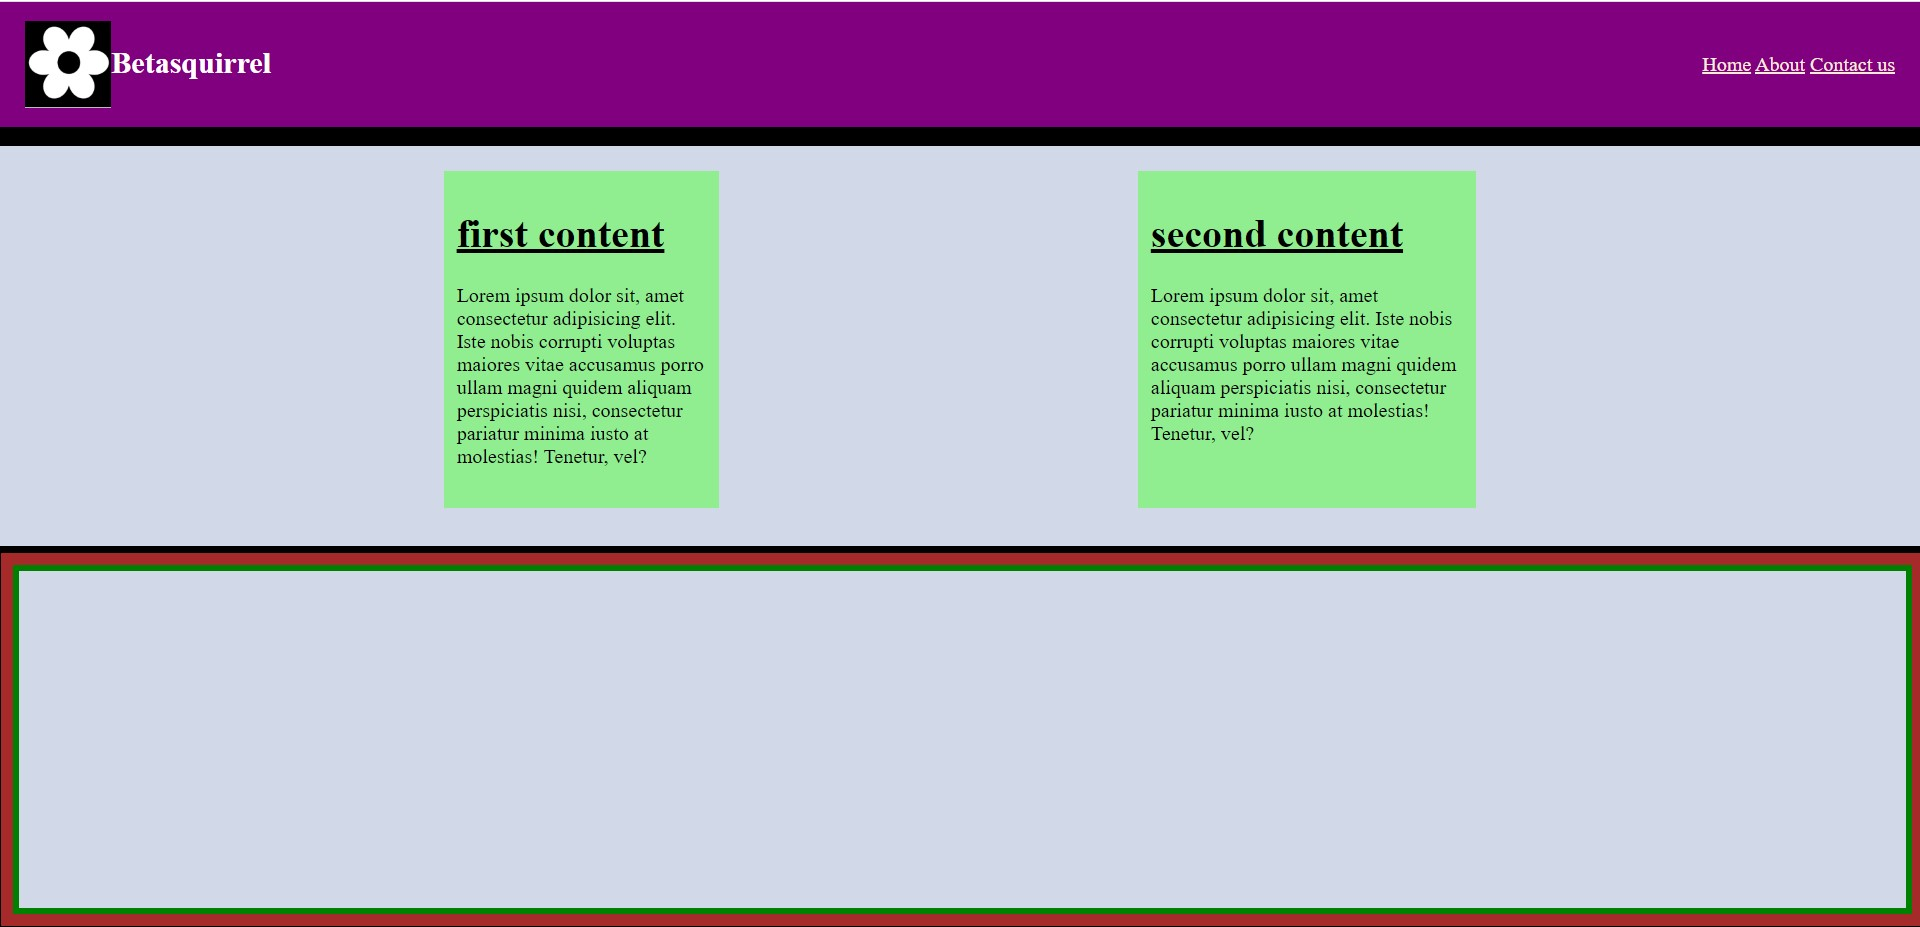
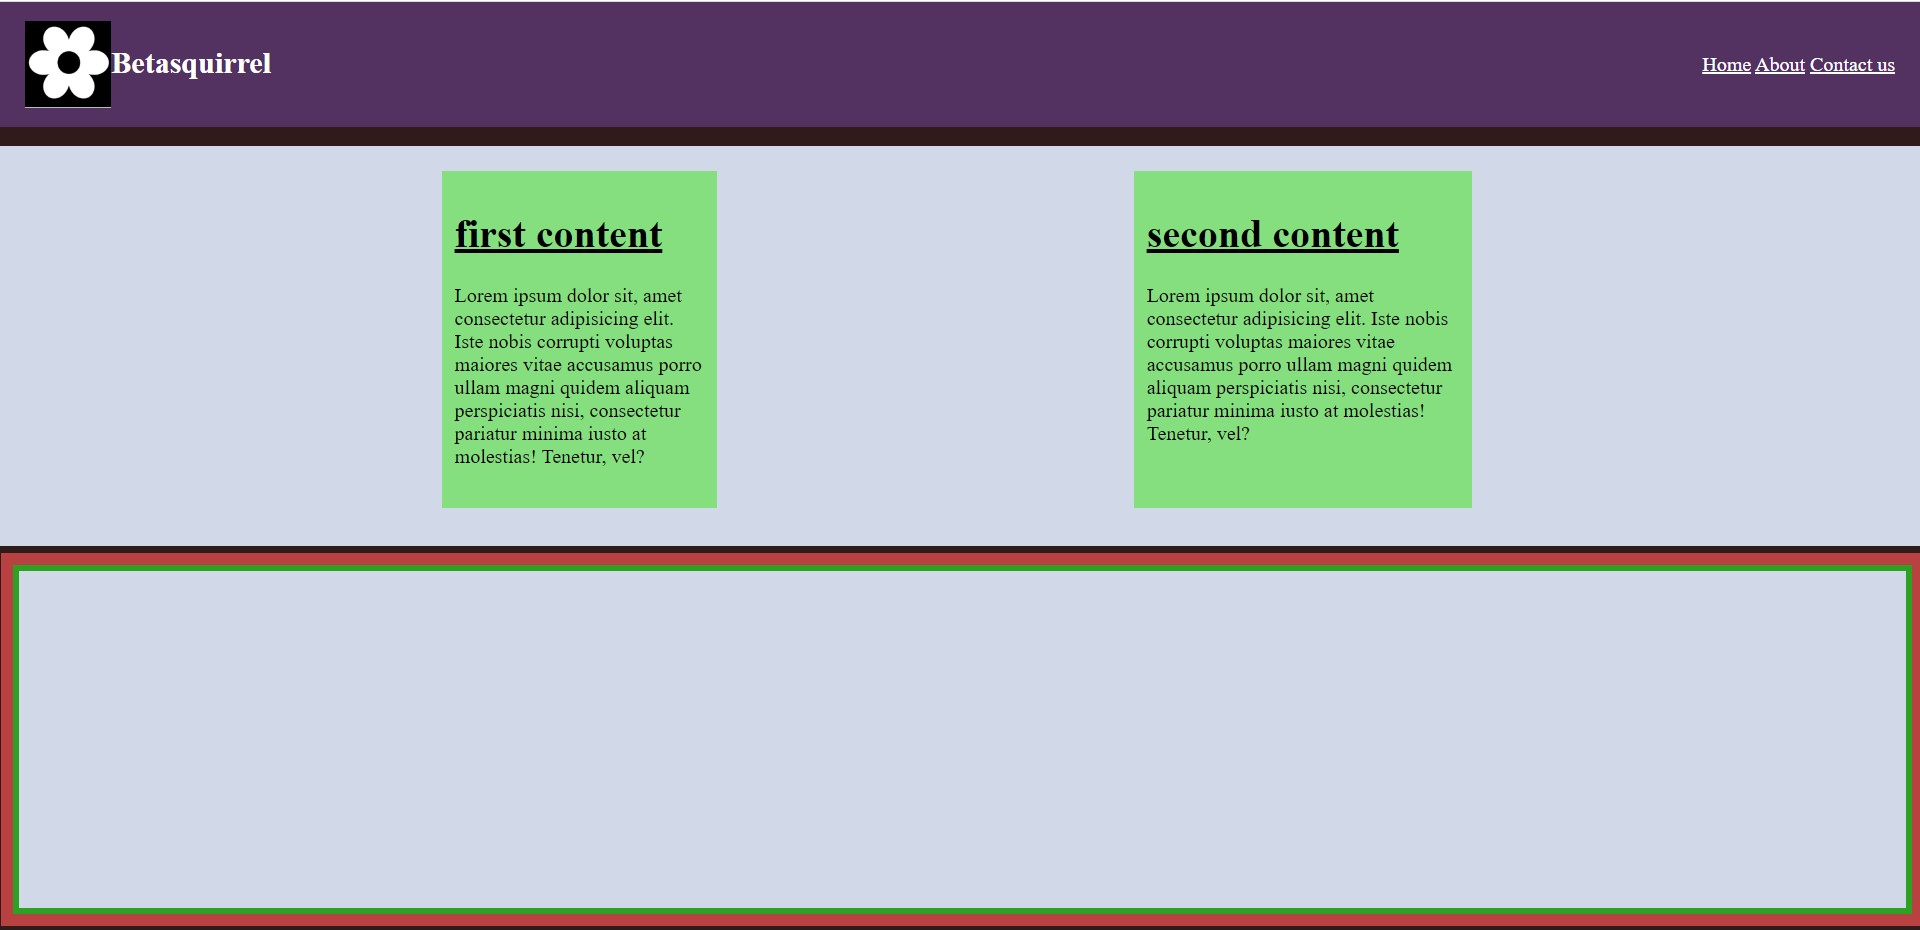
commiting coding-task

diff --git a/task-2/css/style.css b/task-2/css/style.css
@@ -1,9 +1,9 @@
 body {
-  background-color: black;
-  margin: auto;
+  background-color: #2f1b1a;
+  margin: 0 auto;
 }
 #navbar {
-  background-color: purple;
+  background-color: #533262;
   height: 80px;
   margin-bottom: 15px;
   display: flex;
@@ -16,19 +16,22 @@ body {
 }
 .container {
   height: 200px;
-  display: flex;
   flex-direction: row;
+  margin-right: 5px;
+  display: flex;
   justify-content: space-evenly;
 }
 .child1 {
   width: 200px;
   height: 250px;
-  background-color: lightgreen;
+  background-color: #86df7e;
+  float: left;
 }
 .child2 {
   width: 250px;
   height: 250px;
-  background-color: lightgreen;
+  background-color: #86df7e;
+  float: right;
 }
 #box {
   background-color: #D1D8E8;
@@ -38,8 +41,8 @@ body {
   margin-left: 10px;
   padding: 10px;
   margin-bottom: 10px;
-  border: 5px solid green;
-  outline: 10px solid brown;
+  border: 5px solid #2ca122;
+  outline: 10px solid #b94141;
 }
 div {
   padding: 10px;
@@ -65,5 +68,5 @@ div {
   color: white;
 }
 .right a {
-  color: antiquewhite;
+  color: white;
 }

diff --git a/task-1/css/style.css b/task-1/css/style.css
@@ -1,11 +1,13 @@
 body {
-  background-color: black;
+  background-color:  #2f1b1a;
   margin: auto;
 }
 #navbar {
-  background-color: purple;
+  background-color: #533262;
   height: 80px;
   margin-bottom: 15px;
+  display: flex;
+  justify-content: space-between;
 }
 #main-container {
   background-color: #D1D8E8;
@@ -15,15 +17,15 @@ body {
 .boxes {
   background-color: #D1D8E8;
   height: 250px;
-  width: 31%;
+  width: calc((100% / 3) - 34px);
   float: left;
   margin-bottom: 15px;
 }
 .m-r {
-  margin-right: 15px;
+  margin-right: 20px;
 }
 .m-l {
-  margin-left: 5px;
+  margin-left: 1px;
 }
 div {
   padding: 10px;
@@ -31,11 +33,14 @@ div {
 #main-container h1 {
   text-decoration: underline;
 }
-.left {
+.left, .h1 {
   float: left;
+  align-self: center;
+  display: flex;
 }
 .right {
   float: right;
+  align-self: center;
 
 }
 .left img {
@@ -44,8 +49,8 @@ div {
 .left h1 {
   display: inline;
   color: white;
-  align-self: center;
 }
 .right a {
-  color: antiquewhite;
+  color: white;
+
 }

diff --git a/task-4/index.html b/task-4/index.html
@@ -3,7 +3,7 @@
   <head>
     <meta charset="UTF-8" />
     <meta http-equiv="X-UA-Compatible" content="IE=edge" />
-    <meta name="viewport" content="width=, initial-scale=1.0" />
+    <meta name="viewport" content="width=device-width, initial-scale=1.0" />
     <title>task 4</title>
     <link rel="stylesheet" href="css/style.css" />
   </head>
@@ -32,7 +32,7 @@
         </nav>
       </div>
       <div id="container">
-        <h2>dashboards</h2>
+        <h2>dashboard</h2>
         <div id="tile-container">
           <div class="tile green-bg">
             <h2>Total Sales</h2>

diff --git a/task-4/css/style.css b/task-4/css/style.css
@@ -43,7 +43,7 @@ body {
   float: left;
 }
 #container > h2 {
-  color: aquamarine;
+  color: black;
   margin: 0 0 15px 0;
   text-decoration: underline;
 }

diff --git a/README.md b/README.md
@@ -70,7 +70,7 @@ my stackoverflow link
 
  my linkdin link
 
- https://www.linkedin.com/in/nimi-e-5a4110266/
+ https://www.linkedin.com/in/nimisha-e-5a4110266/
 
 
 
